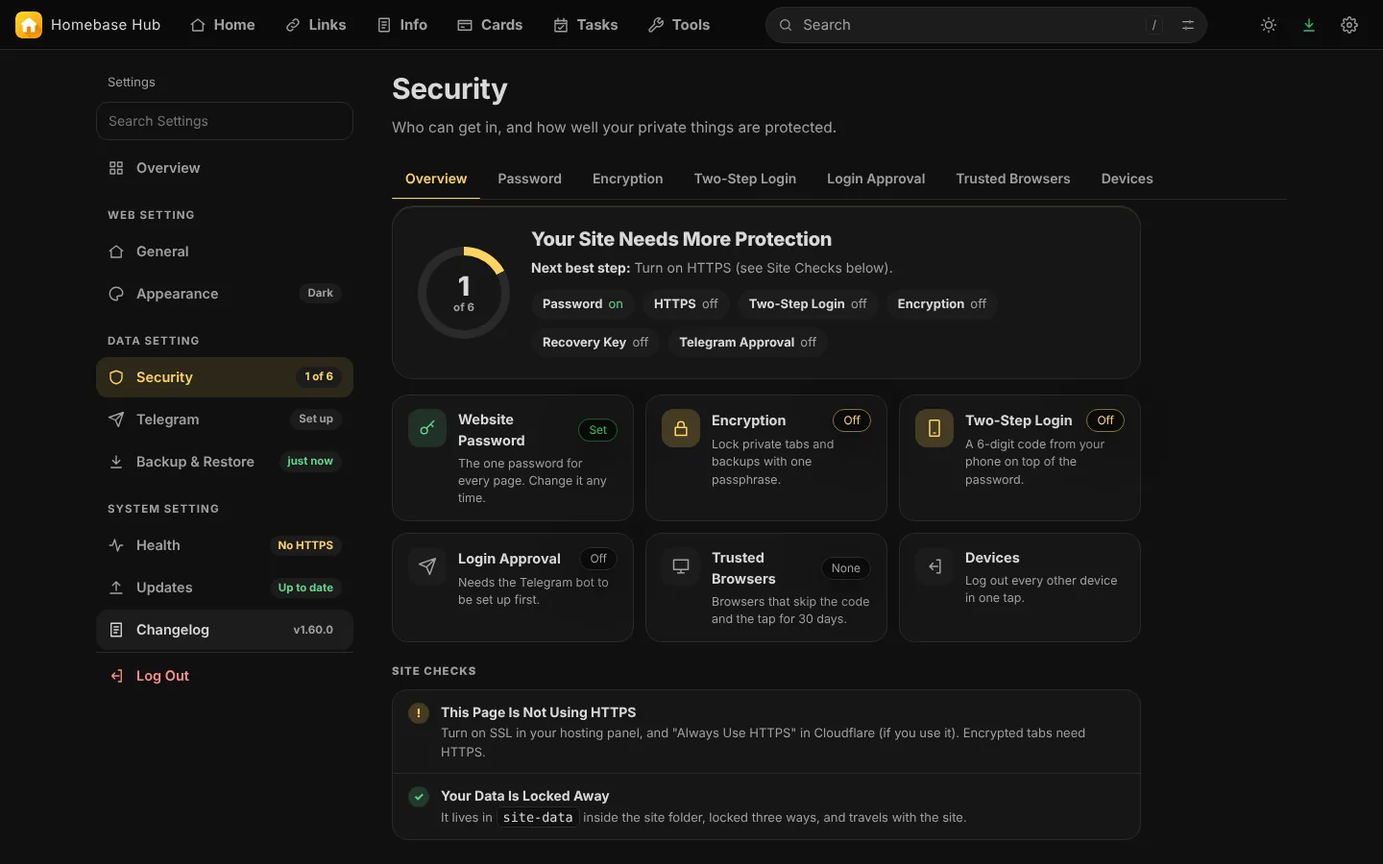
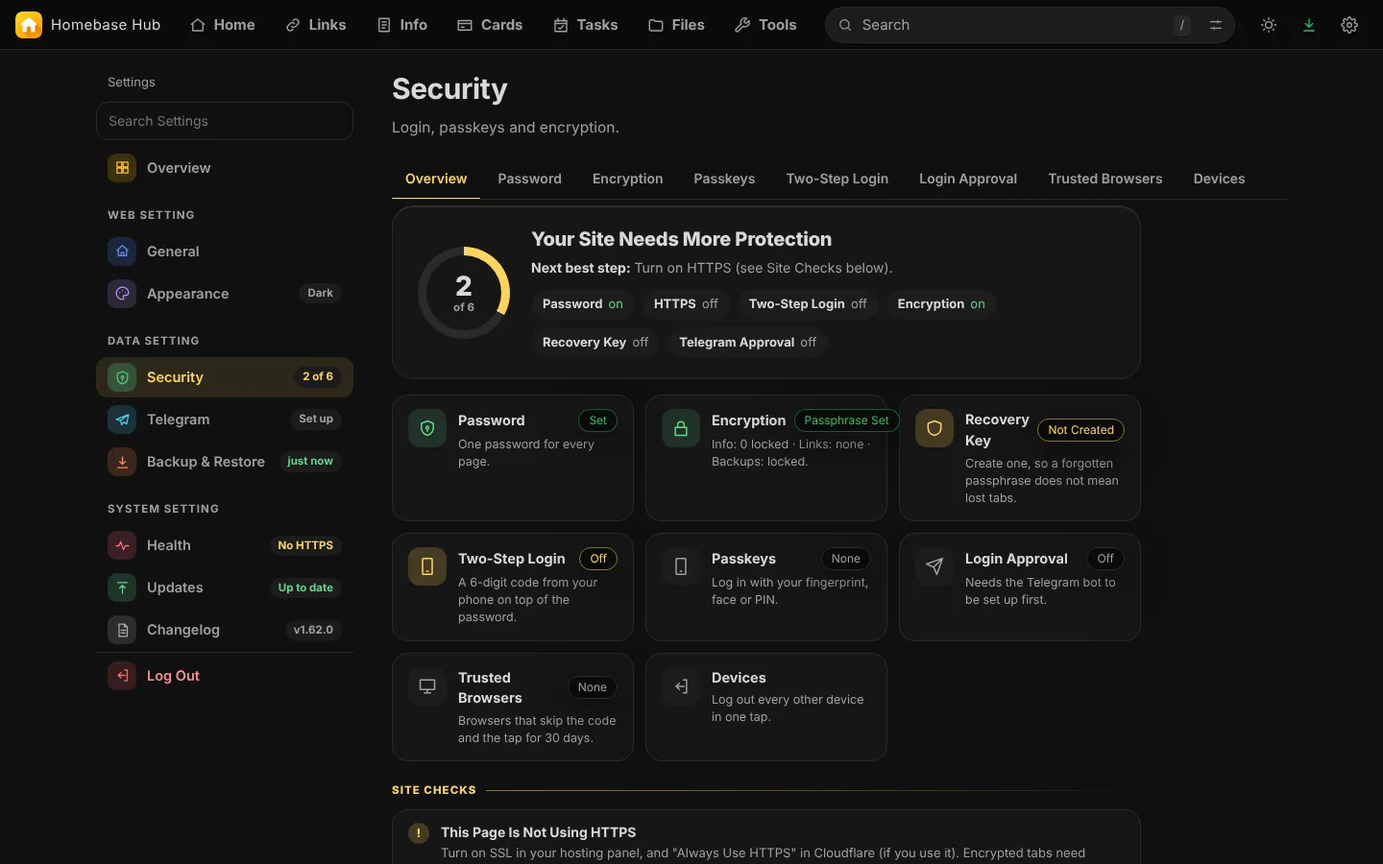
Website: a Files page, and the 1.61 and 1.62 pictures
- A seventh feature page, Files (its own colour and icon), between Tasks
  and Tools; the home tour, the features page and the footer follow
  ("Seven pages. One home.", 7 pages, one login).
- Tasks: the Calendar Link. Info: Undo. On your phone: Share to Homebase
  Hub. Screenshots: a Files group, the calendar link, Info Undo, and
  Security, Encryption and Passkeys.
- Eight new pictures in website/img (from scripts/screenshots.py).
- website_test W21 counts 7 panels; new W49 to W51.

Claude-Session: https://claude.ai/code/session_01U8TXqwVFZTWspkR1dhpjdk

diff --git a/website/style.css b/website/style.css
@@ -2,7 +2,7 @@
 :root{color-scheme:light dark;--bg:light-dark(#f8f5ee,#050507);--bg2:light-dark(#f3ead8,#10101a);--card:light-dark(#fff,#161622);--card2:light-dark(#f8f2e5,#1d1d2c);--line:light-dark(rgba(30,25,50,.15),rgba(255,255,255,.12));--text:light-dark(#17142a,#f5f3ee);--mute:light-dark(#54516a,#b3b0c2);--glass:light-dark(rgba(255,255,255,.78),rgba(255,255,255,.06));--brand:#ffc21a;--bt:light-dark(#8a5a00,#ffc21a);--onb:#1a1300;--blob:light-dark(.26,.36);--g2:light-dark(#d3246f,#ff5fa2);--g3:light-dark(#5a47d8,#8b7bff);--chip:light-dark(rgba(255,255,255,.94),rgba(20,20,32,.92))}
 :root[data-theme=dark]{color-scheme:dark}:root[data-theme=light]{color-scheme:light}
 html[data-look=sky]{--brand:#4cc9f0;--bt:light-dark(#0b6a8e,#4cc9f0)}html[data-look=mint]{--brand:#2ee6a6;--bt:light-dark(#087a57,#2ee6a6)}html[data-look=pink]{--brand:#ff5fa2;--bt:light-dark(#c01662,#ff7db4)}html[data-look=violet]{--brand:#8b7bff;--bt:light-dark(#5344d3,#a89bff)}html[data-look=orange]{--brand:#ff9f43;--bt:light-dark(#b24d00,#ff9f43)}
-.a-home{--ac:#4cc9f0;--act:light-dark(#0b6a8e,#4cc9f0)}.a-links{--ac:#8b7bff;--act:light-dark(#5344d3,#a89bff)}.a-info{--ac:#2ee6a6;--act:light-dark(#087a57,#2ee6a6)}.a-cards{--ac:#ff5fa2;--act:light-dark(#c01662,#ff7db4)}.a-tasks{--ac:#ff9f43;--act:light-dark(#b24d00,#ff9f43)}.a-tools{--ac:#c6f432;--act:light-dark(#4a7400,#c6f432)}.a-tg{--ac:#4aa8ff;--act:light-dark(#0b5fb5,#6cb8ff)}.a-gold{--ac:#ffc21a;--act:var(--bt)}
+.a-home{--ac:#4cc9f0;--act:light-dark(#0b6a8e,#4cc9f0)}.a-links{--ac:#8b7bff;--act:light-dark(#5344d3,#a89bff)}.a-info{--ac:#2ee6a6;--act:light-dark(#087a57,#2ee6a6)}.a-cards{--ac:#ff5fa2;--act:light-dark(#c01662,#ff7db4)}.a-tasks{--ac:#ff9f43;--act:light-dark(#b24d00,#ff9f43)}.a-tools{--ac:#c6f432;--act:light-dark(#4a7400,#c6f432)}.a-files{--ac:#d56bff;--act:light-dark(#8d1fc4,#e08bff)}.a-tg{--ac:#4aa8ff;--act:light-dark(#0b5fb5,#6cb8ff)}.a-gold{--ac:#ffc21a;--act:var(--bt)}
 @supports not (color:light-dark(#000,#fff)){:root{--bg:#0a0a10;--bg2:#10101a;--card:#161622;--card2:#1d1d2c;--line:rgba(255,255,255,.12);--text:#f5f3ee;--mute:#b3b0c2;--glass:rgba(255,255,255,.06);--bt:#ffc21a;--blob:.5;--g2:#ff5fa2;--g3:#8b7bff;--chip:rgba(20,20,32,.92)}[class*=a-]{--act:var(--ac)}}
 *{box-sizing:border-box;margin:0}html{scroll-behavior:smooth;-webkit-text-size-adjust:100%}
 body{font-family:Manrope,system-ui,-apple-system,"Segoe UI",sans-serif;background:var(--bg);color:var(--text);line-height:1.55;font-size:17px;-webkit-font-smoothing:antialiased}

diff --git a/website/content/guide.html b/website/content/guide.html
@@ -4,7 +4,7 @@
 <div class="btns"><a class="btn pri" href="Homebase-Hub-Guide.pdf">Download the guide (PDF)</a><a class="btn" href="Homebase-Hub-Guide-Print.pdf">Print edition (light pages)</a></div>
 <h2>What is inside</h2>
 <table><tr><th>Chapter</th><th>What it covers</th></tr>
-<tr><td>Welcome</td><td>The six pages, the bar, and search shortcuts.</td></tr>
+<tr><td>Welcome</td><td>The seven pages, the bar, and search shortcuts.</td></tr>
 <tr><td>Install</td><td>Five steps from download to your own site, and what each folder holds.</td></tr>
 <tr><td>First steps</td><td>Guided Setup: password, two-step login, passphrase, backup and Telegram.</td></tr>
 <tr><td>Home, Links, Info, Cards, Tasks, Tools</td><td>What each page does, how to edit it, and its options.</td></tr>

diff --git a/scripts/site_pages.py b/scripts/site_pages.py
@@ -1,4 +1,4 @@
-"""Pages of the website that are built from data: the home page, the features hub, one page for each of the six app pages,
+"""Pages of the website that are built from data: the home page, the features hub, one page for each of the seven app pages,
 Telegram, On your phone, the Tools finder and the FAQ. scripts/make-site.py imports this and wraps each body in the site's
 header and footer. Plain HTML, no inline styles or scripts (the site's security policy allows neither), so the colours come
 from classes (a-home, a-tasks ...) and the few positions that vary (the numbered dots on screenshots) from hot.css,
@@ -50,7 +50,7 @@ def looks_row():
             ''.join('<button class="look l-%s" type="button" data-look="%s" aria-label="%s look" aria-pressed="%s"></button>' % (k, k, n, 'true' if k == 'gold' else 'false') for k, n in LOOKS) + '</div>')
 
 
-# ---------------------------------------------------------------- the six app pages
+# ---------------------------------------------------------------- the seven app pages
 # Each: what it is, the facts worth a glance, the everyday problems it solves, the details we are proud of, and the
 # numbered points on its screenshot (tour = text, hot = where on the picture, in percent).
 NT = len(json.load(open(os.path.join(ROOT, 'tools-app', 'src', 'tools.json'), encoding='utf-8'))['tools'])   # the number of tools, from the one list
@@ -98,7 +98,7 @@ FEATURES = [
                    ('Private notes in plain sight', 'Encrypted tabs, with keys made in your browser', 'lock')],
          details=[('note', 'Boxes you can size and arrange', 'Each tab holds 1 to 12 boxes. Resize them and put them where you want.'), ('book', 'Cards or a document', 'Arrange boxes as cards, or write the tab as one document with an outline.'),
                   ('download', 'Export as PDF or text', 'Export one tab, or all of them.'), ('search', 'Found by search', 'Search covers the text of your notes, not only their titles.'),
-                  ('settings', 'Settings in one window', 'Info Settings holds privacy, text sizes and how the edit bar looks.')],
+                  ('undo', 'Undo after a delete', 'Delete a box or a tab by mistake and a message offers Undo for 7 seconds. It comes back with its text, also in a locked tab.'), ('settings', 'Settings in one window', 'Info Settings holds privacy, text sizes and how the edit bar looks.')],
          tour=[('Tabs of notes', 'Each tab holds up to 12 boxes.'), ('Boxes', 'Notes in boxes you can size and arrange.'), ('Encrypted tabs', 'Lock a tab with your passphrase.')],
          hot=[(24, 13), (38, 40), (62, 13)], everyday=('Notes scattered across apps', 'Boxes you can size, or one document with an outline')),
     dict(id='cards', name='Cards', ac='a-cards', icon='card', url='yourdomain.com/web/cards',
@@ -125,11 +125,29 @@ FEATURES = [
                    ('Re-typing the same monthly bill', 'Repeats bring it back by itself, with its price', 'repeat'),
                    ('Checking an app to see what is due', 'A daily digest and Due Now messages come to you', 'send')],
          details=[('tasks', 'Add in plain words', 'Type a name, a price and how often, like Netflix 649 monthly 5 Nov, and the task fills itself in.'), ('chart', 'Calendar and analytics', 'See your tasks on a calendar, and how they add up in Analytics.'),
-                  ('send', 'Done, Skip or Snooze on Telegram', 'Handle a reminder from the message itself: snooze for 1 hour, 3 hours or until tomorrow.'), ('gift', 'Year in Review', 'A PDF that looks back over your year of bills, renewals and chores.'),
+                  ('send', 'Done, Skip or Snooze on Telegram', 'Handle a reminder from the message itself: snooze for 1 hour, 3 hours or until tomorrow.'), ('gift', 'Year in Review', 'A PDF that looks back over your year of bills, renewals and chores.'), ('calendar', 'Calendar Link', 'Turn it on in Tasks Settings for a secret link, and your tasks show up in Google Calendar, Apple Calendar or Outlook. A new link ends the old one.'),
                   ('settings', 'Tasks Settings', 'Your currency, when a task counts as due soon, what the page opens on, and how dates look.')],
          tour=[('Smart lists', 'Today, overdue, this week and more, one click away.'), ('A week at a glance', 'See what is due on each day of the week.'),
                ('Dates, repeats, prices', 'Bills and renewals that come back by themselves.'), ('Add in plain words', 'Type Netflix 649 monthly and it understands.')],
          hot=[(12, 42), (52, 25), (60, 58), (42, 12)], everyday=('Forgotten bills and renewals', 'Due dates, repeats, and a nudge on Telegram')),
+    dict(id='files', name='Files', ac='a-files', icon='folder', url='yourdomain.com/web/files',
+         h1='Your files, *locked in your browser*.',
+         lead='Keep documents, photos and anything else on your own server, in folders you name. Each file is locked in your browser before it is sent, so the server only ever holds scrambled data.',
+         pic=('files.webp', 1440, 900, 'Files page with a folder, files and the details panel'),
+         chips=[('lock', 'Locked in the browser', 'The server can not read a file or its name'), ('link', 'Share links', 'One file, one link, you choose when it ends')],
+         facts=[('Locked', 'in your browser, names too'), ('5 GB', 'default limit, you can change it'), ('Links', 'share one file, with an end date'), ('Trash', 'kept 30 days, then removed')],
+         problems=[('Documents scattered over free cloud drives', 'Folders, search and a preview on your own server', 'folder'),
+                   ('Sending a file to someone', 'A share link where the key is in the link itself, so it never reaches your server', 'link'),
+                   ('Deleting the wrong file', 'The Trash keeps it for 30 days, and Undo brings it back at once', 'undo')],
+         details=[('folder', 'Folders, search and preview', 'Make folders, search by name, and open a picture, a PDF or a text file without downloading it. A folder downloads as one zip.'),
+                  ('lock', 'Locked before it leaves your browser', 'Every file has its own key, and the name is locked too. Your passphrase unlocks them; the server never gets it.'),
+                  ('link', 'Share links you control', 'Make a link for one file and choose when it ends. The key sits after the # in the address, so it is never sent to your server. Switch share links off to end them all.'),
+                  ('star', 'Starred and Recent', 'Star the files you reach for, and see the newest ones under Recent.'),
+                  ('phone', 'Share from your phone', 'In the installed app on Android, share a photo or a file to Homebase Hub and save it to Files, or open it in Tools.'),
+                  ('settings', 'Files Settings', 'The storage limit, share links on or off, and how long the Trash keeps things.')],
+         tour=[('New and folders', 'Upload files, or make a folder, from one button.'), ('Your files, listed', 'Names, sizes and dates. One click picks a file, a double click opens it.'),
+               ('Details on the right', 'Preview, download, share, star and move, for the file you picked.'), ('Locked in your browser', 'The server can not read the file or its name.')],
+         hot=[(8, 11), (45, 40), (86, 24), (86, 59)], everyday=('Files all over the place', 'Folders on your own server, locked in your browser')),
     dict(id='tools', name='Tools', ac='a-tools', icon='tools', url='yourdomain.com/web/tools',
          h1='%d tools, *right in your browser*.' % NT,
          lead='Resize and convert images, merge and sign PDFs, work out loans and savings, make invoices, scan QR codes and more. Search, star your favourites and get on with your day.',
@@ -221,7 +239,7 @@ def home():
         ('a-tools', '12:10', 'Sort out a PDF', 'Merge, compress or sign it in your browser with the PDF tools.', 'Tools'),
         ('a-tasks', '21:00', 'The bill is due', 'A Telegram message arrives with Done, Skip and Snooze. One tap and it is handled.', 'Tasks and Telegram')])
     stats = ''.join('<div class="stat %s"><b>%s</b><span>%s</span></div>' % (ac, n, e(t)) for ac, n, t in [
-        ('a-home', '6', 'pages, one login'), ('a-tools', str(NT), 'tools in your browser'), ('a-links', '141', 'ready-made looks'), ('a-cards', '0', 'databases to run'), ('a-tasks', '3', 'browser engines tested')])
+        ('a-home', '7', 'pages, one login'), ('a-tools', str(NT), 'tools in your browser'), ('a-links', '141', 'ready-made looks'), ('a-cards', '0', 'databases to run'), ('a-tasks', '3', 'browser engines tested')])
     more = ''.join('<a class="card hv %s" href="%s"><h3>%s</h3><p>%s</p><span class="more">Open%s</span></a>' % (ac, href, e(t), e(p), I('arrow')) for ac, href, t, p in [
         ('a-home', 'guide.html', 'The guide', 'Every page and every setting, step by step (PDF).'), ('a-info', 'faq/', 'Questions and answers', 'Hosting, updates, privacy and more.'),
         ('a-tasks', 'changelog.html', 'Changelog', 'What changed in every version.'), ('a-links', REPO, 'Source code', 'Read it, build it, report an issue.')])
@@ -234,10 +252,10 @@ def home():
 <div class="hart">{frame('shot-links.webp', 1440, 709, 'Links page with bookmarks in tabs and categories', 'yourdomain.com/web/links', True)}
 {chip('c1', 'a-links', 'link', 'Import bookmarks', 'Preview first, undo anytime')}{chip('c2', 'a-cards', 'image', '141 looks', 'Pick yours')}{chip('c3', 'a-info', 'lock', 'Encrypted tabs', 'Keys made in your browser')}</div></div></section>
 <section class="stats" aria-label="Homebase Hub at a glance"><div class="in">{stats}</div></section>
-<section class="s" id="features"><div class="in"><span class="eyebrow">The tour</span><h2>Six pages. One home.</h2>
+<section class="s" id="features"><div class="in"><span class="eyebrow">The tour</span><h2>Seven pages. One home.</h2>
 <p class="intro">Each page has its own colour and its own job. They share one bar, one login and one Settings page, so it feels like one app.</p>
-<div id="screenshots"><div class="tabs" role="tablist" aria-label="The six pages">{tabs}</div>{panels}</div></div></section>
-<section class="s" id="pages"><div class="in"><span class="eyebrow">Around the pages</span><h2>More than six pages.</h2><div class="cards c4">{around}</div></div></section>
+<div id="screenshots"><div class="tabs" role="tablist" aria-label="The seven pages">{tabs}</div>{panels}</div></div></section>
+<section class="s" id="pages"><div class="in"><span class="eyebrow">Around the pages</span><h2>More than seven pages.</h2><div class="cards c4">{around}</div></div></section>
 <section class="s" id="everyday"><div class="in"><span class="eyebrow">Everyday life, improved</span><h2>The small annoyances, gone.</h2><p class="intro">What changes the day you install it.</p>{problems}</div></section>
 <section class="s" id="day"><div class="in"><span class="eyebrow">A day with Homebase Hub</span><h2>One ordinary day, made calmer.</h2><div class="cards">{moments}</div></div></section>
 <section class="s" id="telegram"><div class="in tg"><div class="a-tg"><span class="eyebrow">Telegram</span><h2>Reminders where you already are.</h2>
@@ -261,10 +279,10 @@ def features_hub():
         ('a-links', 'screenshots/', 'image', 'Screenshots', 'Every page, and the settings of each.'), ('a-tools', 'tools/', 'search', 'Tool finder', 'Search all %d tools by name or by what they do.' % NT), ('a-tg', 'telegram/', 'send', 'Telegram', 'Digest, Due Now buttons, commands and backups.'),
         ('a-home', 'phone/', 'phone', 'On your phone', 'Install the site like an app, on iPhone, Android or a computer.'), ('a-info', 'security.html', 'shield', 'Security', 'What protects your data, and what does not.')])
     body = f'''<section class="hero">{SHAPES_Q}
-<div class="in"><div class="crumb"><b>Features</b></div><h1>Six pages. <span class="grad">One home.</span></h1><p class="lead">Each page does one job and has its own colour. They share the same bar, login, backup and Settings. Pick one to see what it does.</p></div></section>
+<div class="in"><div class="crumb"><b>Features</b></div><h1>Seven pages. <span class="grad">One home.</span></h1><p class="lead">Each page does one job and has its own colour. They share the same bar, login, backup and Settings. Pick one to see what it does.</p></div></section>
 <section class="in"><div class="cards c2">{cards}</div></section>
 <section class="s"><div class="in"><span class="eyebrow">And around them</span><h2>Everything else.</h2><div class="cards c4">{extra}</div></div></section>{band()}'''
-    return dict(slug='features', title='Features: Homebase Hub', cls='', desc='The six pages of Homebase Hub: Home, Links, Info, Cards, Tasks and Tools, and what each one does for your everyday life.', body=body)
+    return dict(slug='features', title='Features: Homebase Hub', cls='', desc='The seven pages of Homebase Hub: Home, Links, Info, Cards, Tasks, Files and Tools, and what each one does for your everyday life.', body=body)
 
 
 def feature(f):
@@ -318,6 +336,7 @@ def phone():
     perks = ''.join('<div class="card a-home"><div class="ico">%s</div><h3>%s</h3><p>%s</p></div>' % (I(ic), e(t), e(p)) for ic, t, p in [
         ('phone', 'Its own icon', 'The site sits on your home screen with the Homebase Hub icon, or your site name.'), ('home', 'No browser bars', 'It opens in its own window, like an app.'),
         ('link', 'Shortcuts', 'Press and hold the icon, where your phone allows it, to jump to Links, Info, Cards, Tasks or Tools.'), ('shield', 'Nothing kept offline', 'Your data always comes from your server, and stays there.'),
+        ('send', 'Share to Homebase Hub', 'In the installed app on Android, share a photo or a file from another app and save it to Files, or open it in Tools. Nothing is sent anywhere else.'),
         ('arrow', 'Swipe between pages', 'Swipe left or right to go to the next or previous page, in the order of your bar. On Home, pull down for the next photo.'),
         ('refresh', 'Always current', 'After an update the app shows the new version by itself. Only the icon on an iPhone changes after removing and adding it again.')])
     body = f'''<section class="hero fh a-home">{SHAPES_Q}
@@ -393,7 +412,8 @@ GALLERY = [
         ('Settings', [('links-settings.webp', 'Links Settings: privacy, icons, visit counts, text sizes and the edit bar.', True)])]),
     ('info', 'Info', 'a-info', 'note', [
         ('Highlights', [('info.webp', 'Notebook Cards: boxes of different widths in each tab.', True),
-                        ('info-doc.webp', 'A tab laid out as a Document, with its outline.', False)]),
+                        ('info-doc.webp', 'A tab laid out as a Document, with its outline.', False),
+                        ('info-undo.webp', 'Delete a box and a message offers Undo for 7 seconds.', False)]),
         ('Settings', [('info-settings.webp', 'Info Settings: privacy, encryption, text sizes and the edit bar.', True)])]),
     ('cards', 'Cards', 'a-cards', 'card', [
         ('Highlights', [('cards.webp', 'Every card in one table, with yearly charges added up.', True),
@@ -404,8 +424,13 @@ GALLERY = [
     ('tasks', 'Tasks', 'a-tasks', 'tasks', [
         ('Highlights', [('tasks.webp', 'Tasks grouped by when they are due, with this week across the top.', True),
                         ('tasks-calendar.webp', 'The calendar.', False),
-                        ('tasks-analytics.webp', 'Analytics: the next 12 months at a glance.', False)]),
+                        ('tasks-analytics.webp', 'Analytics: the next 12 months at a glance.', False),
+                        ('tasks-calendar-link.webp', 'Tasks Settings, Calendar Link: a secret link for Google, Apple or Outlook.', False)]),
         ('Settings', [('tasks-settings.webp', 'Tasks Settings: General, When the Page Opens, and Look.', True)])]),
+    ('files', 'Files', 'a-files', 'folder', [
+        ('Highlights', [('files.webp', 'Files: folders, a details panel, and "Locked in your browser" for the file you picked.', False),
+                        ('files-share.webp', 'A share link for one file: the key is after the # in the address, so it never reaches your server.', False)]),
+        ('Settings', [('files-settings.webp', 'Files Settings: Only Me, the storage limit, share links and how long the Trash keeps things.', False)])]),
     ('tools', 'Tools', 'a-tools', 'tools', [
         ('Highlights', [('tools.webp', 'Every tool in sections, with search, favourites and recent tools.', True),
                         ('tools-calculators.webp', 'Calculators: loans, savings, deposits, dates, units and amounts in words.', False),
@@ -424,7 +449,9 @@ GALLERY = [
                       ('s-appearance.webp', 'Appearance: the bar, theme, font and accent colour.', False),
                       ('s-presets.webp', 'Appearance, Presets: 141 ready-made looks, with a Vivid group.', False),
                       ('s-colors.webp', 'Appearance, Colors: every colour of the bar and pages.', False),
-                      ('s-security.webp', 'Security: password, two-step login, devices and login history.', False),
+                      ('s-security.webp', 'Security: where your site stands, from the password to the passphrase that locks your data.', False),
+                      ('s-encryption.webp', 'Security, Encryption: one passphrase that locks Cards, Files, Tools presets and private tabs in your browser.', False),
+                      ('s-passkeys.webp', 'Security, Passkeys: log in with a fingerprint, face or PIN.', False),
                       ('s-telegram.webp', 'Telegram: your bot, the digest, reminders and backups.', False),
                       ('s-backup.webp', 'Backup and Restore: one file for the whole site, and earlier versions.', False),
                       ('s-updates.webp', 'Updates: from GitHub or by zip, with Go Back.', False),

diff --git a/tests/browser/website_test.py b/tests/browser/website_test.py
@@ -173,7 +173,7 @@ try:
         pg.goto(B + '/#p-info'); until(lambda: vis() == ['p-info'], 3000); check('W20 a link like /#p-info (used by the README) opens that tab', vis() == ['p-info'], vis()); c2.close()
         c2 = ctx(java_script_enabled=False); pg = c2.new_page(); pg.goto(B + '/')   # no script runs: the loaded page is final
         shown = pg.evaluate("[...document.querySelectorAll('#screenshots [role=tabpanel]')].filter(p => p.offsetParent !== null).length")
-        check('W21 with scripts off the whole tour is still there (all 6 panels, no tabs)', shown == 6 and not pg.is_visible('#screenshots [role=tablist]'), shown); c2.close()
+        check('W21 with scripts off the whole tour is still there (all 7 panels, no tabs)', shown == 7 and not pg.is_visible('#screenshots [role=tablist]'), shown); c2.close()
 
         # the look picker
         c2 = ctx(); pg = c2.new_page(); pg.goto(B + '/'); settle(pg)
@@ -279,6 +279,16 @@ try:
         anim = pg.evaluate("[...document.querySelectorAll('.sh > i')].map(i => getComputedStyle(i).animationName)")
         pg.mouse.move(300, 300); pg.mouse.move(900, 500, steps=12); pg.wait_for_timeout(300)
         check('W48 with reduced motion the shapes stay still and nothing follows the mouse', all(a == 'none' for a in anim) and not pg.evaluate("document.querySelector('.sh').style.transform"), anim); c2.close()
+
+        # 1.62: the seventh page, Files, and the new pictures
+        pg = ctx().new_page(); pg.goto(B + '/features/files/'); pg.wait_for_timeout(600)
+        info = pg.evaluate("""({h1: document.querySelector('h1').textContent, pic: !!document.querySelector('img[src$="files.webp"]') && document.querySelector('img[src$="files.webp"]').naturalWidth > 0,
+            dots: document.querySelectorAll('.hot').length, tour: [...document.querySelectorAll('.hot')].length, lock: /locked/i.test(document.body.innerText), nav: [...document.querySelectorAll('footer a')].some(a => a.textContent.trim() === 'Files')})""")
+        check('W49 the Files page: its heading, its picture, numbered dots, and a link to it in the footer', 'locked' in info['h1'].lower() and info['pic'] and info['dots'] == 4 and info['nav'], info)
+        pg.goto(B + '/features/'); n = pg.evaluate("document.querySelectorAll('a[href*=\"features/files\"], a[href=\"files/\"]').length")
+        check('W50 the features page links to Files, and says seven pages', n >= 1 and 'Seven pages' in pg.inner_text('h1'), (n, pg.inner_text('h1')))
+        pg.goto(B + '/screenshots/'); pg.click('#t-files'); until(lambda: pg.is_visible('#p-files'), 3000)
+        check('W51 Screenshots has a Files group with its three pictures', pg.is_visible('#p-files') and pg.locator('#p-files .zoom').count() == 3, pg.locator('#p-files .zoom').count())
 
         # axe, every page, both themes (this context bypasses the page policy, which would stop axe from running)
         for scheme in ('dark', 'light'):

diff --git a/scripts/make-guide.py b/scripts/make-guide.py
@@ -105,7 +105,7 @@ toc.levelStyles = [ParagraphStyle('t0', fontName='M-Bold', fontSize=11.5, leadin
 story += [P('Contents', 'h1'), Spacer(1, 6), toc]
 
 story += chapter('1', 'Welcome', 'Homebase Hub puts the small things you open every day in one private place on your own hosting.',
- P('There are six pages and one Settings page, all behind one login. They share the same bar, the same look and the same backup. There is no database: your data lives in one folder, <font name="M-Bold">site-data</font>, that browsers cannot open.'),
+ P('There are seven pages and one Settings page, all behind one login. They share the same bar, the same look and the same backup. There is no database: your data lives in one folder, <font name="M-Bold">site-data</font>, that browsers cannot open.'),
  table(['Page', 'What it is for'], [['Home', 'Your start page, with background photos that change.'], ['Links', 'Bookmarks in tabs and categories.'], ['Info', 'Notes in tabs, arranged as boxes or written as a document.'],
    ['Cards', 'Your cards in one table you can search.'], ['Tasks', 'Bills, renewals and chores with due dates.'], ['Tools', 'Image, PDF and text tools that run in your browser.'], ['Settings', 'Everything about the site: look, security, Telegram, backups, updates, health.']]),
  *sub('The bar'),

diff --git a/scripts/make-site.py b/scripts/make-site.py
@@ -108,6 +108,7 @@ ICONS = {
     'note': '<path d="M6 3h9l4 4v14H6z"/><path d="M14.5 3v4.5H19"/><path d="M9 12h7M9 16h7"/>',
     'card': '<rect x="3" y="5.5" width="18" height="13" rx="2.5"/><path d="M3 10h18M6.5 15h4"/>',
     'tasks': '<rect x="4" y="4" width="16" height="16" rx="3"/><path d="m8.5 12.2 2.4 2.4 4.6-5"/>',
+    'folder': '<path d="M3.5 7.5A2.5 2.5 0 0 1 6 5h3.4l2 2.5H18A2.5 2.5 0 0 1 20.5 10v7.5A2.5 2.5 0 0 1 18 20H6a2.5 2.5 0 0 1-2.5-2.5z"/>',
     'tools': '<path d="M4 7h10M18 7h2M4 17h2M10 17h10"/><circle cx="16" cy="7" r="2"/><circle cx="8" cy="17" r="2"/>',
     'settings': '<circle cx="12" cy="12" r="3"/><path d="M12 3v2.5M12 18.5V21M3 12h2.5M18.5 12H21M5.6 5.6l1.8 1.8M16.6 16.6l1.8 1.8M18.4 5.6l-1.8 1.8M7.4 16.6l-1.8 1.8"/>',
     'lock': '<rect x="5" y="10.5" width="14" height="10" rx="2.5"/><path d="M8.5 10.5V8a3.5 3.5 0 0 1 7 0v2.5"/>',
